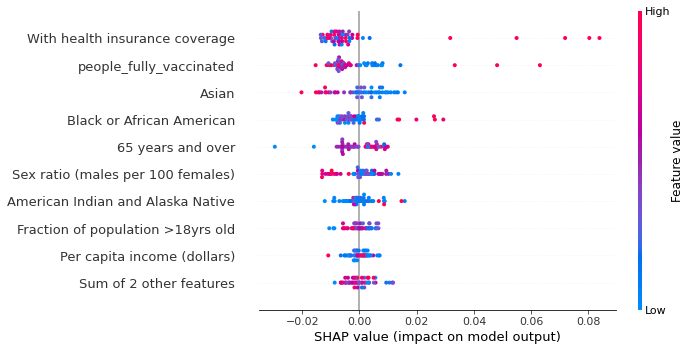
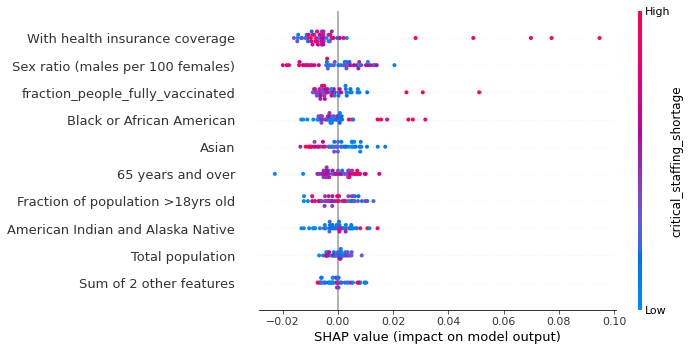
explanable AI graphs

diff --git a/templates/insights.html b/templates/insights.html
@@ -44,11 +44,11 @@
   <div id="tester" style="width:600px;height:250px;"></div> -->
   <nav class="site-header sticky-top py-1">
     <div class="container d-flex flex-column flex-md-row justify-content-between">
-      <a class="py-2 d-none d-md-inline-block" style="color:#BF3943;" href="/">Home</a>
+      <a class="py-2 d-none d-md-inline-block" style="color:white;" href="/">Home</a>
       <a class="py-2 d-none d-md-inline-block" style="color: white;" href="/trends">Case Based Trends</a>
       <a class="py-2 d-none d-md-inline-block" style="color: white;" href="/mobility">Mobility</a>
       <a class="py-2 d-none d-md-inline-block" style="color: white;" href="/search-trends">Search Trends</a>
-      <a class="py-2 d-none d-md-inline-block" style="color:white;" href="/insights">Explanable AI</a>
+      <a class="py-2 d-none d-md-inline-block" style="color:#BF3943;" href="/insights">Explanable AI</a>
     </div>
   </nav>
   <!-- <div id="myDiv"></div> -->
@@ -59,10 +59,19 @@
 <div class="container text-center">
   <h1 class="text-center"></h1>
   
+  <h1 class="text-center"> Feature Importance (Shapley Value) using Tree Based Models </h1>
+  <p class="lead">
+    As expected, States with Higher propotion of adults seems to get fully vaccinated. Different groups in the society tend to react differently to receiving vaccination. Also, Higher propotion of individuals covered in health insurance also shows a higher tendency to get vaccinated. </p>
+  <img src="./../static/images/fraction-vaccinated-prediction-model-shapley.png" alt="">
+
+<br/>
+  <h1 class="text-center">Vaccine Rollout and Distribution Vary From State to State</h1>
+  <p class="lead">
+    The above factors come into interplay while examining their effect of Shortages across the US States. States have lower burden on healthcare system with higher propotion of fully vaccinated residents. The data also tells us states with higher Black population tend to have critical staffing shortages which points out to the systemic differences.
+  </p>
   <img src="./../static/images/critical-shortage-prediction-model-shapley.png" alt="">
 
   
-  <img src="./../static/images/fraction-vaccinated-prediction-model-shapley.png" alt="">
 </div>
 
 

diff --git a/templates/case-based-trends.html b/templates/case-based-trends.html
@@ -73,11 +73,11 @@
   <h1 class="text-center"><u>The State of The States</u></h1>
 </div>
 <div class="container text-center" id="acsbs"></div>
-<p style="size: 20px" class="text-center">Around 9 States in the US have hospitals that faced >20% critical shortage of
+<p style="size: 50px" class="text-center">Around 9 States in the US have hospitals that faced >20% critical shortage of
   staffing daily on average for the last 2 years consistently</p>
   <div class="container text-center" id="cwdc"></div>    
   <div class="container text-center" id="cspwc"></div>
-  <p style="size: 20px" class="text-center">
+  <p style="size: 50px" class="text-center">
     We can clearly see how gaps in the system are revealed when COVID cases and
     deaths start to rise, hospitals scramble for staff.</p>
 
@@ -89,7 +89,7 @@
 <div class="container text-center" id="csvibu"></div>
 <div class="container text-center" id="csvibu2"></div>
 <div class="container text-center">
-  <p style="size: 20px; width: 300px;" class="text-center">
+  <p style="size: 50px; width: 300px;" class="text-center">
     <ul class="text-left">
       <li>All states are not equipped in the same way to manage staffing e.g. Hospitals in
         Pennsylvania average about 70-80% utilization and face much lower staff
@@ -108,7 +108,7 @@
 <div class="container text-center" id="acbs"></div>
 
 <div class="container text-center">
-  <p style="size: 20px; width: 300px;" class="text-center">
+  <p style="size: 50px; width: 300px;" class="text-center">
     <ul class="text-left">
       <li>Smaller and remote states such as Virgin Islands, Rhode islands and New Mexico
         top the charts for facing critical staff shortages.</li>

diff --git a/templates/index.html b/templates/index.html
@@ -57,16 +57,15 @@
 </body>
 
 <div class="container text-center">
-  <h1 class="text-center">Vaccination Facilities Per 10k People</h1>
+  <h1 class="text-center">Vaccine Rollout and Distribution Vary From State to State</h1>
   <p class="lead">
-    Vaccine rollout and distribution can vary greatly from state to state, and can also change over time. It looks like California  lower vaccine coverage compared to others. Factors such as access to vaccine providers, hesitancy about the vaccine, and political and cultural beliefs can impact vaccine uptake in a given state.
+    Vaccine rollout and distribution can also change over time. It looks like California  lower vaccine coverage compared to others. Factors such as access to vaccine providers, hesitancy about the vaccine, and political and cultural beliefs can impact vaccine uptake in a given state.
   </p>
   <tableau-viz id='tableau-viz' src='https://10az.online.tableau.com/t/samakshgualti/views/try_viz_tableau_1/Sheet7' width='1440' height='692' hide-tabs toolbar='bottom' ></tableau-viz>
   
   <h1 class="text-center">Cases and Death Trends</h1>
   <p class="lead">
-    
-  </p>
+    As per the data, some states that were among those that suffered the most in terms of COVID-19 cases and deaths included California, Texas, and Minneosta.  </p>
   <tableau-viz id='tableau-viz' src='https://10az.online.tableau.com/t/samakshgualti/views/try_viz_tableau_2/CasesDeaths' width='1440' height='692' hide-tabs toolbar='bottom' ></tableau-viz>
 </div>
 

diff --git a/templates/mobility.html b/templates/mobility.html
@@ -85,8 +85,6 @@
             <br/>
             <br/>
 
-            The data displayed is a mean of the data collected for each country between <b>February 2020 and September 2022</b> across the following public spaces:
-            <br/>
             <br/>
             <ul style="margin-left: 20px; color: black;">
               <li>Retail & Recreation Areas</li>
@@ -103,7 +101,7 @@
 
         <div class="mr-md-1 pt-1 px-1 pt-md-1 px-md-1 text-center text-white overflow-hidden" style="background-color:white;">
           <div class="my-1 p-1">
-              <h1 class="text-center" style="color:black;">Country Wise Mobility Analysis</h1>
+              <h1 class="text-center" style="color:black;">State Wise Mobility Analysis</h1>
               <div style="font-size: 16px; color: white; font-weight: 600;">Visualise the <i>community mobility</i> patterns of various countries</i> </div>
             <br/>
             <div> 
